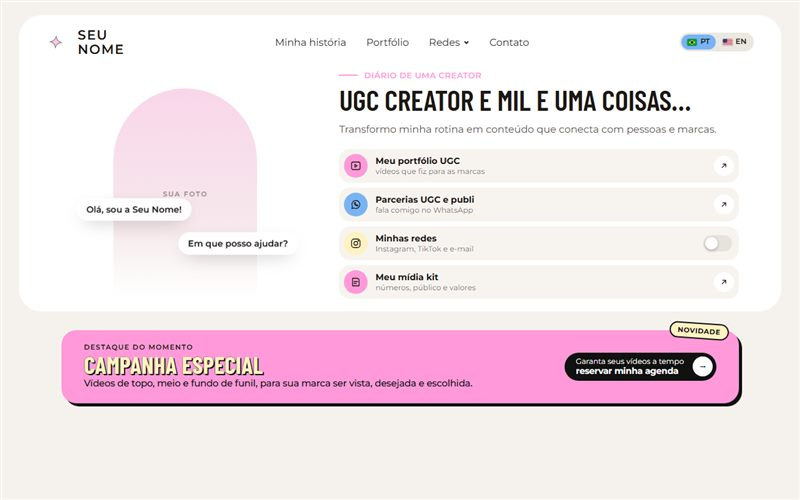
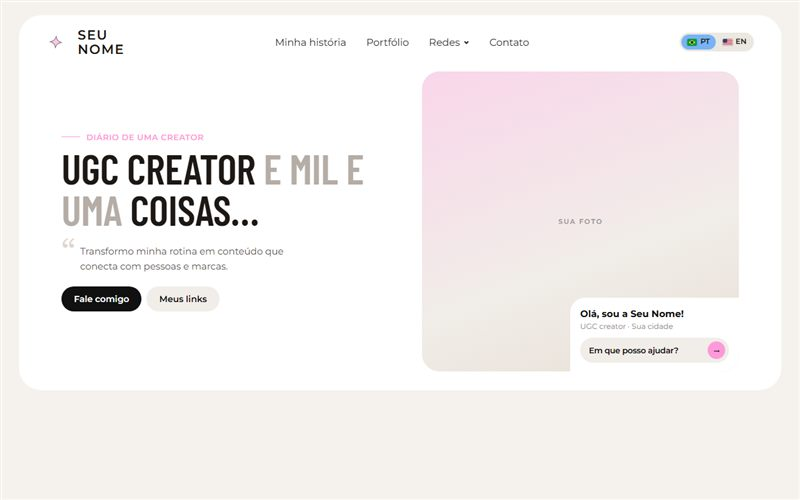
Atualiza index.html

diff --git a/modelos/biolink-01/index.html b/modelos/biolink-01/index.html
@@ -103,14 +103,29 @@ h1,h2,h3{font-family:var(--titulo);font-weight:700;text-transform:uppercase;marg
   .idioma button svg{display:none}
 }
 
-/* ---------- capa: foto com botões por cima + texto com lista ---------- */
-.capa{display:grid;gap:24px;padding-top:2px}
-/* no celular a foto vem primeiro, e o texto logo abaixo */
-/* foto recortada, com o fundo transparente; a base some num sombreado branco, igual ao portfólio */
-.capa-foto{position:relative;overflow:hidden;aspect-ratio:1/1.05}
-.capa-foto > img{position:absolute;z-index:1;left:0;right:0;bottom:0;margin:0 auto;width:auto;height:96%;max-width:none;object-fit:contain;object-position:50% 100%;-webkit-mask-image:linear-gradient(to bottom,#000 68%,transparent 100%);mask-image:linear-gradient(to bottom,#000 68%,transparent 100%)}
-/* foto provisória (no site da cliente vira a foto dela, com o fundo removido, num <img>) */
-.foto-modelo{position:absolute;z-index:1;left:50%;bottom:0;width:58%;height:92%;transform:translateX(-50%);border-radius:200px 200px 0 0;background:linear-gradient(180deg,#f9d6ea,#f5f2ed);display:grid;place-items:center;font-size:11px;font-weight:700;letter-spacing:.14em;text-transform:uppercase;color:rgba(30,25,21,.4);-webkit-mask-image:linear-gradient(to bottom,#000 68%,transparent 100%);mask-image:linear-gradient(to bottom,#000 68%,transparent 100%)}
+/* ---------- capa: título grande à esquerda, foto grande à direita com um cartão por cima ---------- */
+.capa{display:grid;gap:22px;padding-top:6px;padding-bottom:26px}
+h1 span{display:inline;color:#b5ada6}
+.citacao{position:relative;padding-left:30px;font-size:15px}
+.citacao::before{content:"“";position:absolute;left:0;top:-14px;font-family:Georgia,serif;font-size:56px;line-height:1;color:#ded7cf}
+.capa-botoes{display:flex;gap:8px;margin-top:20px}
+.capa-btn{display:inline-flex;align-items:center;padding:11px 20px;border-radius:999px;background:#f1ede8;font-size:14px;font-weight:600;color:var(--tinta);transition:transform .2s}
+.capa-btn:hover{transform:translateY(-2px)}
+.capa-btn.escuro{background:var(--tinta);color:#fff}
+.capa-foto{position:relative;aspect-ratio:4/5;border-radius:28px;overflow:hidden;background:#f3eee9}
+.capa-foto > img{position:absolute;inset:0;width:100%;height:100%;object-fit:cover}
+.foto-modelo{position:absolute;inset:0;background:linear-gradient(160deg,#f9d6ea,#f1ede8 60%,#e8dfd6);display:grid;place-items:center;font-size:11px;font-weight:700;letter-spacing:.14em;text-transform:uppercase;color:rgba(30,25,21,.4)}
+/* cartão branco no canto de baixo da foto, com recorte, como num site de vitrine */
+.capa-cartao{position:absolute;z-index:2;right:0;bottom:0;width:min(270px,78%);padding:16px 16px 14px;border-radius:24px 0 0 0;background:#fff;display:grid;gap:3px}
+.capa-cartao b{font-size:15px}
+.capa-cartao small{font-size:12px;color:#8b847e}
+.capa-cartao a{display:flex;align-items:center;justify-content:space-between;gap:10px;margin-top:8px;padding:6px 6px 6px 14px;border-radius:999px;background:#f1ede8;font-size:12.5px;font-weight:600}
+.capa-cartao a i{width:28px;height:28px;border-radius:50%;background:var(--rosa);display:grid;place-items:center;font-style:normal;transition:transform .2s}
+.capa-cartao a:hover i{transform:rotate(-45deg)}
+/* links (caixinhas) logo depois da capa, em caixas brancas */
+.links{margin-top:26px}
+.links .caixas{margin:0}
+.links .caixas a,.links .caixas > li > button,.links .caixa-redes{background:#fff}
 .capa-ola{z-index:2}
 .vidro{background:rgba(255,255,255,.9);-webkit-backdrop-filter:blur(10px);backdrop-filter:blur(10px);box-shadow:0 10px 30px -12px rgba(0,0,0,.35)}
 /* caixinha "Olá, sou a ..." que flutua devagar em cima da foto */
@@ -133,7 +148,6 @@ h1,h2,h3{font-family:var(--titulo);font-weight:700;text-transform:uppercase;marg
 }
 .rotulo::before{content:"";width:30px;height:1.5px;background:currentColor}
 h1{font-weight:600;font-size:clamp(38px,11vw,70px);line-height:1;letter-spacing:-.005em;color:#1e1915;margin-top:8px}
-h1 span{display:block}
 .intro{margin:14px 0 0;color:#57514c;font-size:16px;line-height:1.6;max-width:400px}
 
 /* caixinhas clicáveis iguais às do "Me encontre aqui" do portfólio */
@@ -358,11 +372,12 @@ h1 span{display:block}
 
   /* capa compacta: cabe na tela sem rolar */
   /* foto mais estreita, texto e caixinhas mais largos */
-  .capa{grid-template-columns:minmax(0,.62fr) minmax(0,1fr);gap:48px;align-items:stretch;padding-top:12px;padding-bottom:20px}
-  .capa-foto{aspect-ratio:auto;height:auto;min-height:340px}
+  .capa{grid-template-columns:minmax(0,1fr) minmax(0,.95fr);gap:44px;align-items:center;padding-top:14px;padding-bottom:30px}
+  .capa-foto{aspect-ratio:auto;height:480px}
+  .links .caixas{grid-template-columns:1fr 1fr;align-items:start}
   .capa-ola{font-size:14px}
-  h1{font-size:clamp(38px,3.6vw,48px)}
-  .intro{font-size:16px;margin-top:12px;max-width:none;white-space:nowrap}
+  h1{font-size:clamp(48px,5.2vw,72px)}
+  .intro{font-size:15px;margin-top:22px;max-width:380px}
 
   .marcas{margin-top:40px}
   .marcas::after{margin-top:22px}
@@ -465,20 +480,33 @@ h1 span{display:block}
   <div class="painel">
   <!-- ================= ABERTURA: foto + apresentação + links ================= -->
   <section class="miolo capa" aria-label="Apresentação">
-    <!-- FOTO DA CAPA: troque o bloco abaixo por <img src="fotos/capa.webp" alt="..." width="781" height="1448" fetchpriority="high">
-         (de preferência a foto da cliente com o fundo removido) -->
-    <div class="capa-foto">
-      <div class="foto-modelo">Sua foto</div>
-      <!-- EDITAR: caixinhas que flutuam devagar em cima da foto -->
-      <span class="capa-ola vidro">Olá, sou a Seu Nome!</span>
-      <a class="capa-ola capa-ola-2 vidro js-whats" href="#conversar" target="_blank" rel="noopener">Em que posso ajudar?</a>
-    </div>
-
     <div class="capa-texto">
       <div class="rotulo">Diário de uma creator</div>
-      <h1>UGC creator e mil e uma coisas…</h1>
-      <p class="intro">Transformo minha rotina em conteúdo que conecta com pessoas e marcas.</p>
+      <!-- EDITAR: título (as palavras dentro de <span> ficam em cinza) -->
+      <h1>UGC creator <span>e mil e uma</span> coisas…</h1>
+      <p class="intro citacao">Transformo minha rotina em conteúdo que conecta com pessoas e marcas.</p>
+      <div class="capa-botoes">
+        <a class="capa-btn escuro js-whats" href="#conversar" target="_blank" rel="noopener">Fale comigo</a>
+        <a class="capa-btn" href="#links">Meus links</a>
+      </div>
+    </div>
+    <!-- FOTO DA CAPA: troque o bloco "foto-modelo" por <img src="fotos/capa.jpg" alt="..."> (foto vertical, com fundo) -->
+    <div class="capa-foto">
+      <div class="foto-modelo">Sua foto</div>
+      <!-- EDITAR: cartão em cima da foto -->
+      <div class="capa-cartao">
+        <b>Olá, sou a Seu Nome!</b>
+        <small>UGC creator · Sua cidade</small>
+        <a class="js-whats" href="#conversar" target="_blank" rel="noopener"><span>Em que posso ajudar?</span><i aria-hidden="true">→</i></a>
+      </div>
+    </div>
+  </section>
+  </div>
 
+  <!-- o resto da página fica no fundo bege -->
+  <div class="resto">
+  <!-- ================= LINKS (as caixinhas clicáveis) ================= -->
+  <section class="miolo links revela" id="links" aria-label="Links">
       <!-- EDITAR: caixinhas de links (cor, ícone, título, texto e link) -->
       <ul class="caixas">
         <li class="caixa-rosa" id="portfolio"><a href="#">
@@ -512,12 +540,7 @@ h1 span{display:block}
           <span class="caixa-seta" aria-hidden="true"><svg viewBox="0 0 24 24"><path d="M7 17 17 7M9 7h8v8"/></svg></span>
         </a></li>
       </ul>
-    </div>
   </section>
-  </div>
-
-  <!-- o resto da página fica no fundo bege -->
-  <div class="resto">
   <!-- ================= DESTAQUE DO MOMENTO ================= -->
   <section class="miolo revela">
     <div class="destaque">
@@ -587,7 +610,7 @@ h1 span{display:block}
   <a href="#portfolio"><svg viewBox="0 0 24 24" aria-hidden="true"><rect x="3.5" y="4.5" width="17" height="15" rx="3"/><path d="M10 9.2v5.6l4.6-2.8z"/></svg>Portfólio</a>
   <a class="centro" href="#conversar" data-alvo="conversar"><svg viewBox="0 0 24 24" aria-hidden="true"><path d="M12 4c4.7 0 8.5 3.2 8.5 7.2s-3.8 7.2-8.5 7.2c-1 0-2-.1-2.9-.4L5 20l1-3.6c-1.5-1.3-2.5-3.1-2.5-5.2C3.5 7.2 7.3 4 12 4z"/><path d="M8.5 11.3h.01M12 11.3h.01M15.5 11.3h.01" stroke-width="2.6"/></svg>Conversar</a>
   <a href="#historia" data-alvo="historia"><svg viewBox="0 0 24 24" aria-hidden="true"><path d="M5 4h11a3 3 0 0 1 3 3v13H8a3 3 0 0 1-3-3Z"/><path d="M5 17a3 3 0 0 1 3-3h11"/></svg>História</a>
-  <a href="#servicos" data-alvo="servicos"><svg viewBox="0 0 24 24" aria-hidden="true"><path d="M12 3.5c.8 4.6 3.4 7.2 8 8-4.6.8-7.2 3.4-8 8-.8-4.6-3.4-7.2-8-8 4.6-.8 7.2-3.4 8-8Z"/></svg>Serviços</a>
+  <a href="#servicos" data-alvo="servicos"><svg viewBox="0 0 24 24" aria-hidden="true"><rect x="3.5" y="7.5" width="17" height="12" rx="2.5"/><path d="M9 7.5V6a2 2 0 0 1 2-2h2a2 2 0 0 1 2 2v1.5M3.5 12.5h17"/></svg>Serviços</a>
 </nav>
 
 <div class="aviso" id="aviso" role="status" aria-live="polite"></div>

diff --git a/cliente/index.html b/cliente/index.html
@@ -540,7 +540,7 @@ document.getElementById("sair").addEventListener("click", () => { location.href 
 //   link: endereço para "Ver o modelo" | imagem: caminho da imagem de capa (ex.: "../fotos/modelos/01.jpg")
 //   estilo: só para os modelos provisórios sem imagem ("clean", "colorido" ou "elegante")
 const MODELOS = [
-  { tipo: "Bio link",  nome: "Diário de creator", categoria: "Clean e fofo", link: "../modelos/biolink-01/", imagem: "../fotos/modelos/bio-01.jpg" },
+  { tipo: "Bio link",  nome: "Diário de creator", categoria: "Clean e fofo", link: "../modelos/biolink-01/", imagem: "../fotos/modelos/bio-01.jpg?v=2" },
   { tipo: "Portfólio", nome: "Editorial creme e azul", categoria: "Editorial", link: "../modelos/estilo-01/", imagem: "../fotos/modelos/01.jpg?v=5" },
   { tipo: "Portfólio", nome: "Scrapbook rosa e amarelo", categoria: "Divertido", link: "../modelos/estilo-02/", imagem: "../fotos/modelos/02.jpg?v=4" },
   { tipo: "Portfólio", nome: "Editor flutuante", categoria: "Moderno", link: "../modelos/estilo-03/", imagem: "../fotos/modelos/03.jpg?v=7" },
